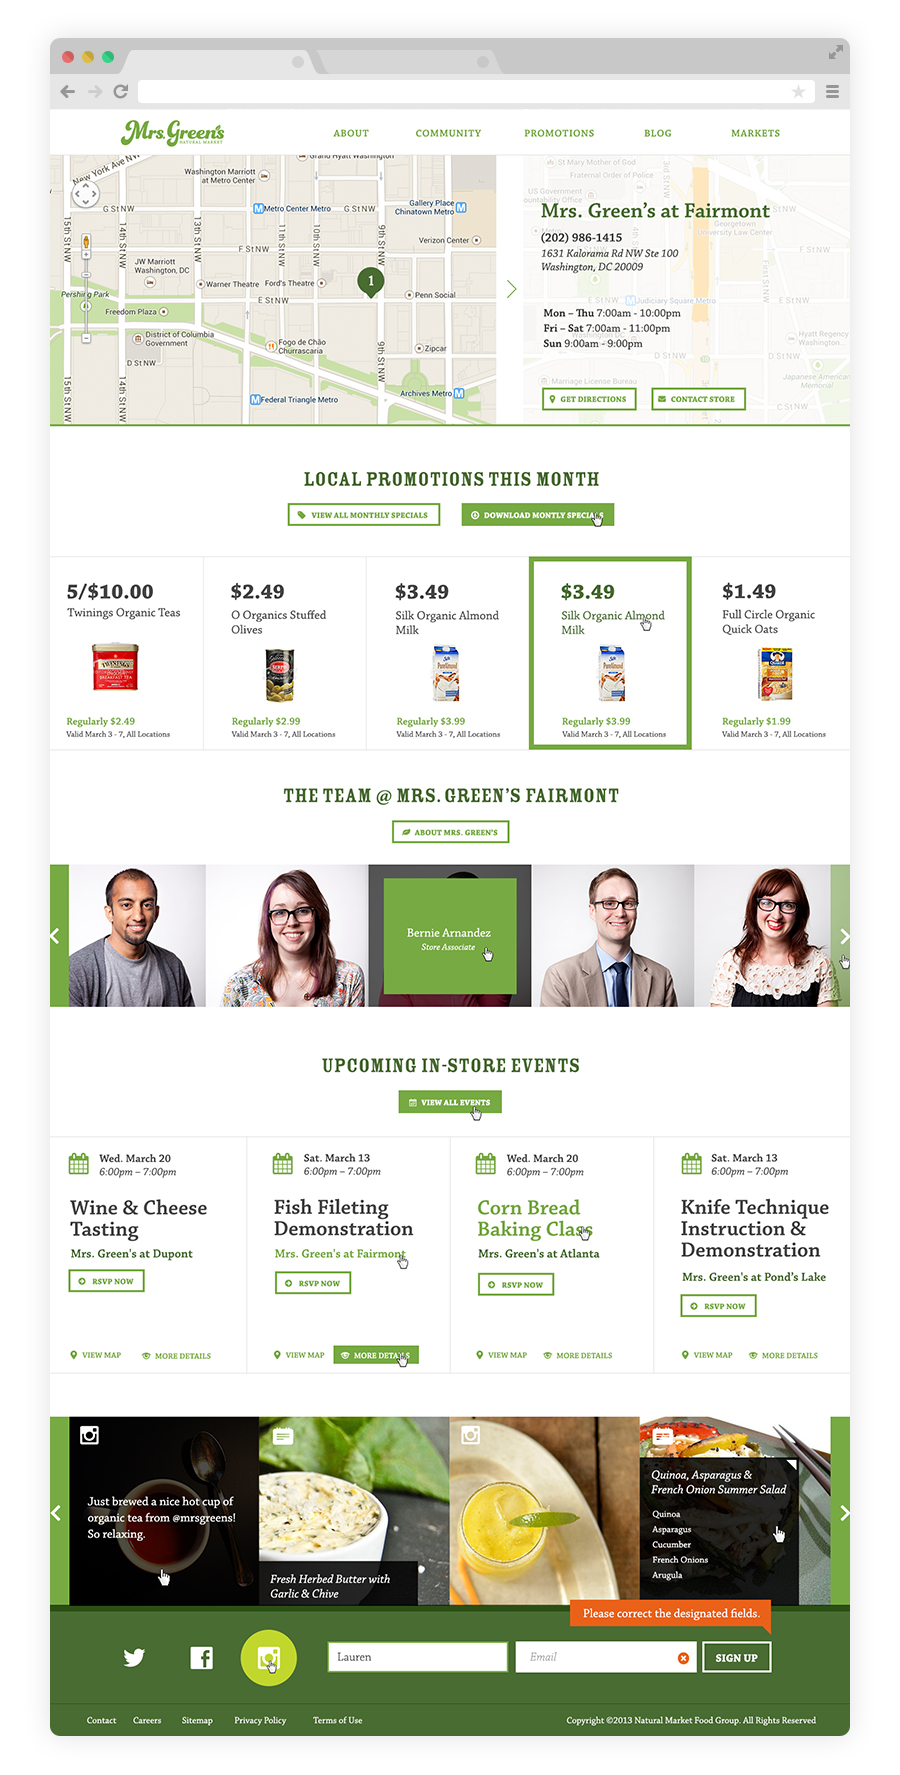
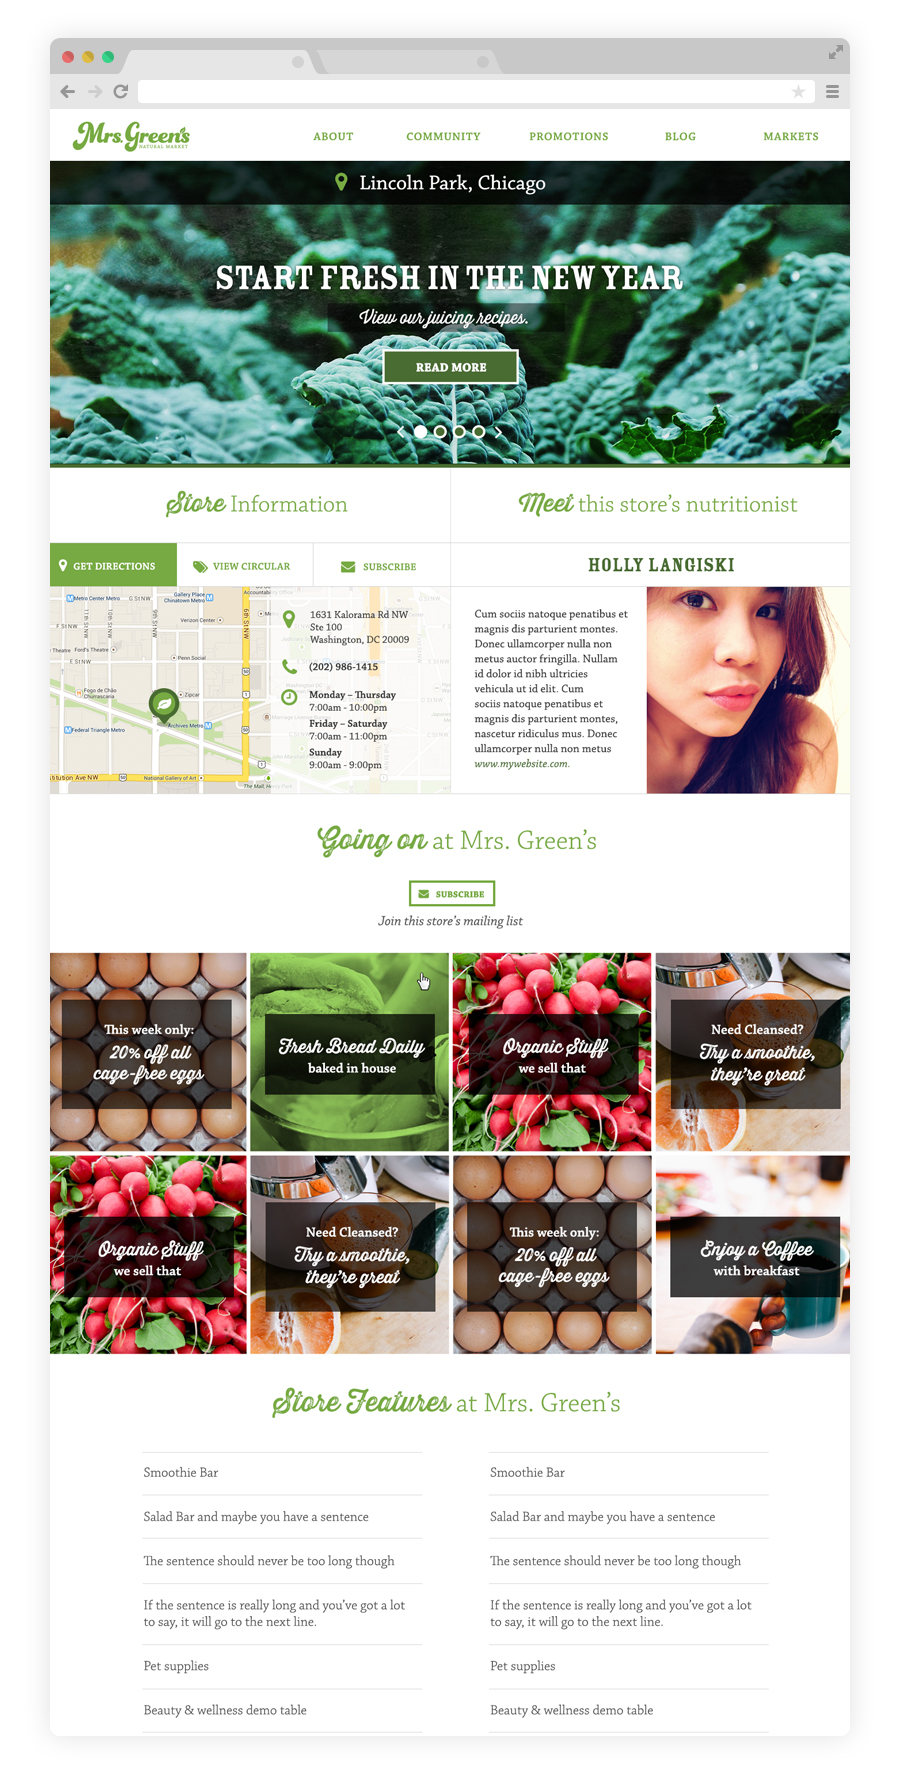
mrsg

diff --git a/work01.html b/work01.html
@@ -67,8 +67,7 @@
 			<div class="col-lg-8 col-lg-offset-2">
 				<p><img class="img-responsive" src="assets/img/portfolio/MG0.jpg" alt=""></p>
 				<p>HOMEPAGE </br> Features promotions, blog, and latest events.<img class="img-responsive" src="assets/img/portfolio/MG1.jpg" alt=""></p>
-				<p>Store Page, featuring the location and store-specific promotions.</p>
-				<p><img class="img-responsive" src="assets/img/portfolio/MG2.jpg" alt=""></p>
+				<p>STORE PAGE </br> Features store location, promotions, circular, nutritionist, and most recent blog post. Also highlights store specific features. <img class="img-responsive" src="assets/img/portfolio/MG2.jpg" alt=""></p>
 				<p><bt>Client: <a href="#">BlackTie.co</a></bt> - <bt>Type: <a href="#">Illustration</a></bt> - <bt>Date: <a href="#">January 2014</a></bt></p>
 			</div>
 		</div><!-- /row -->
